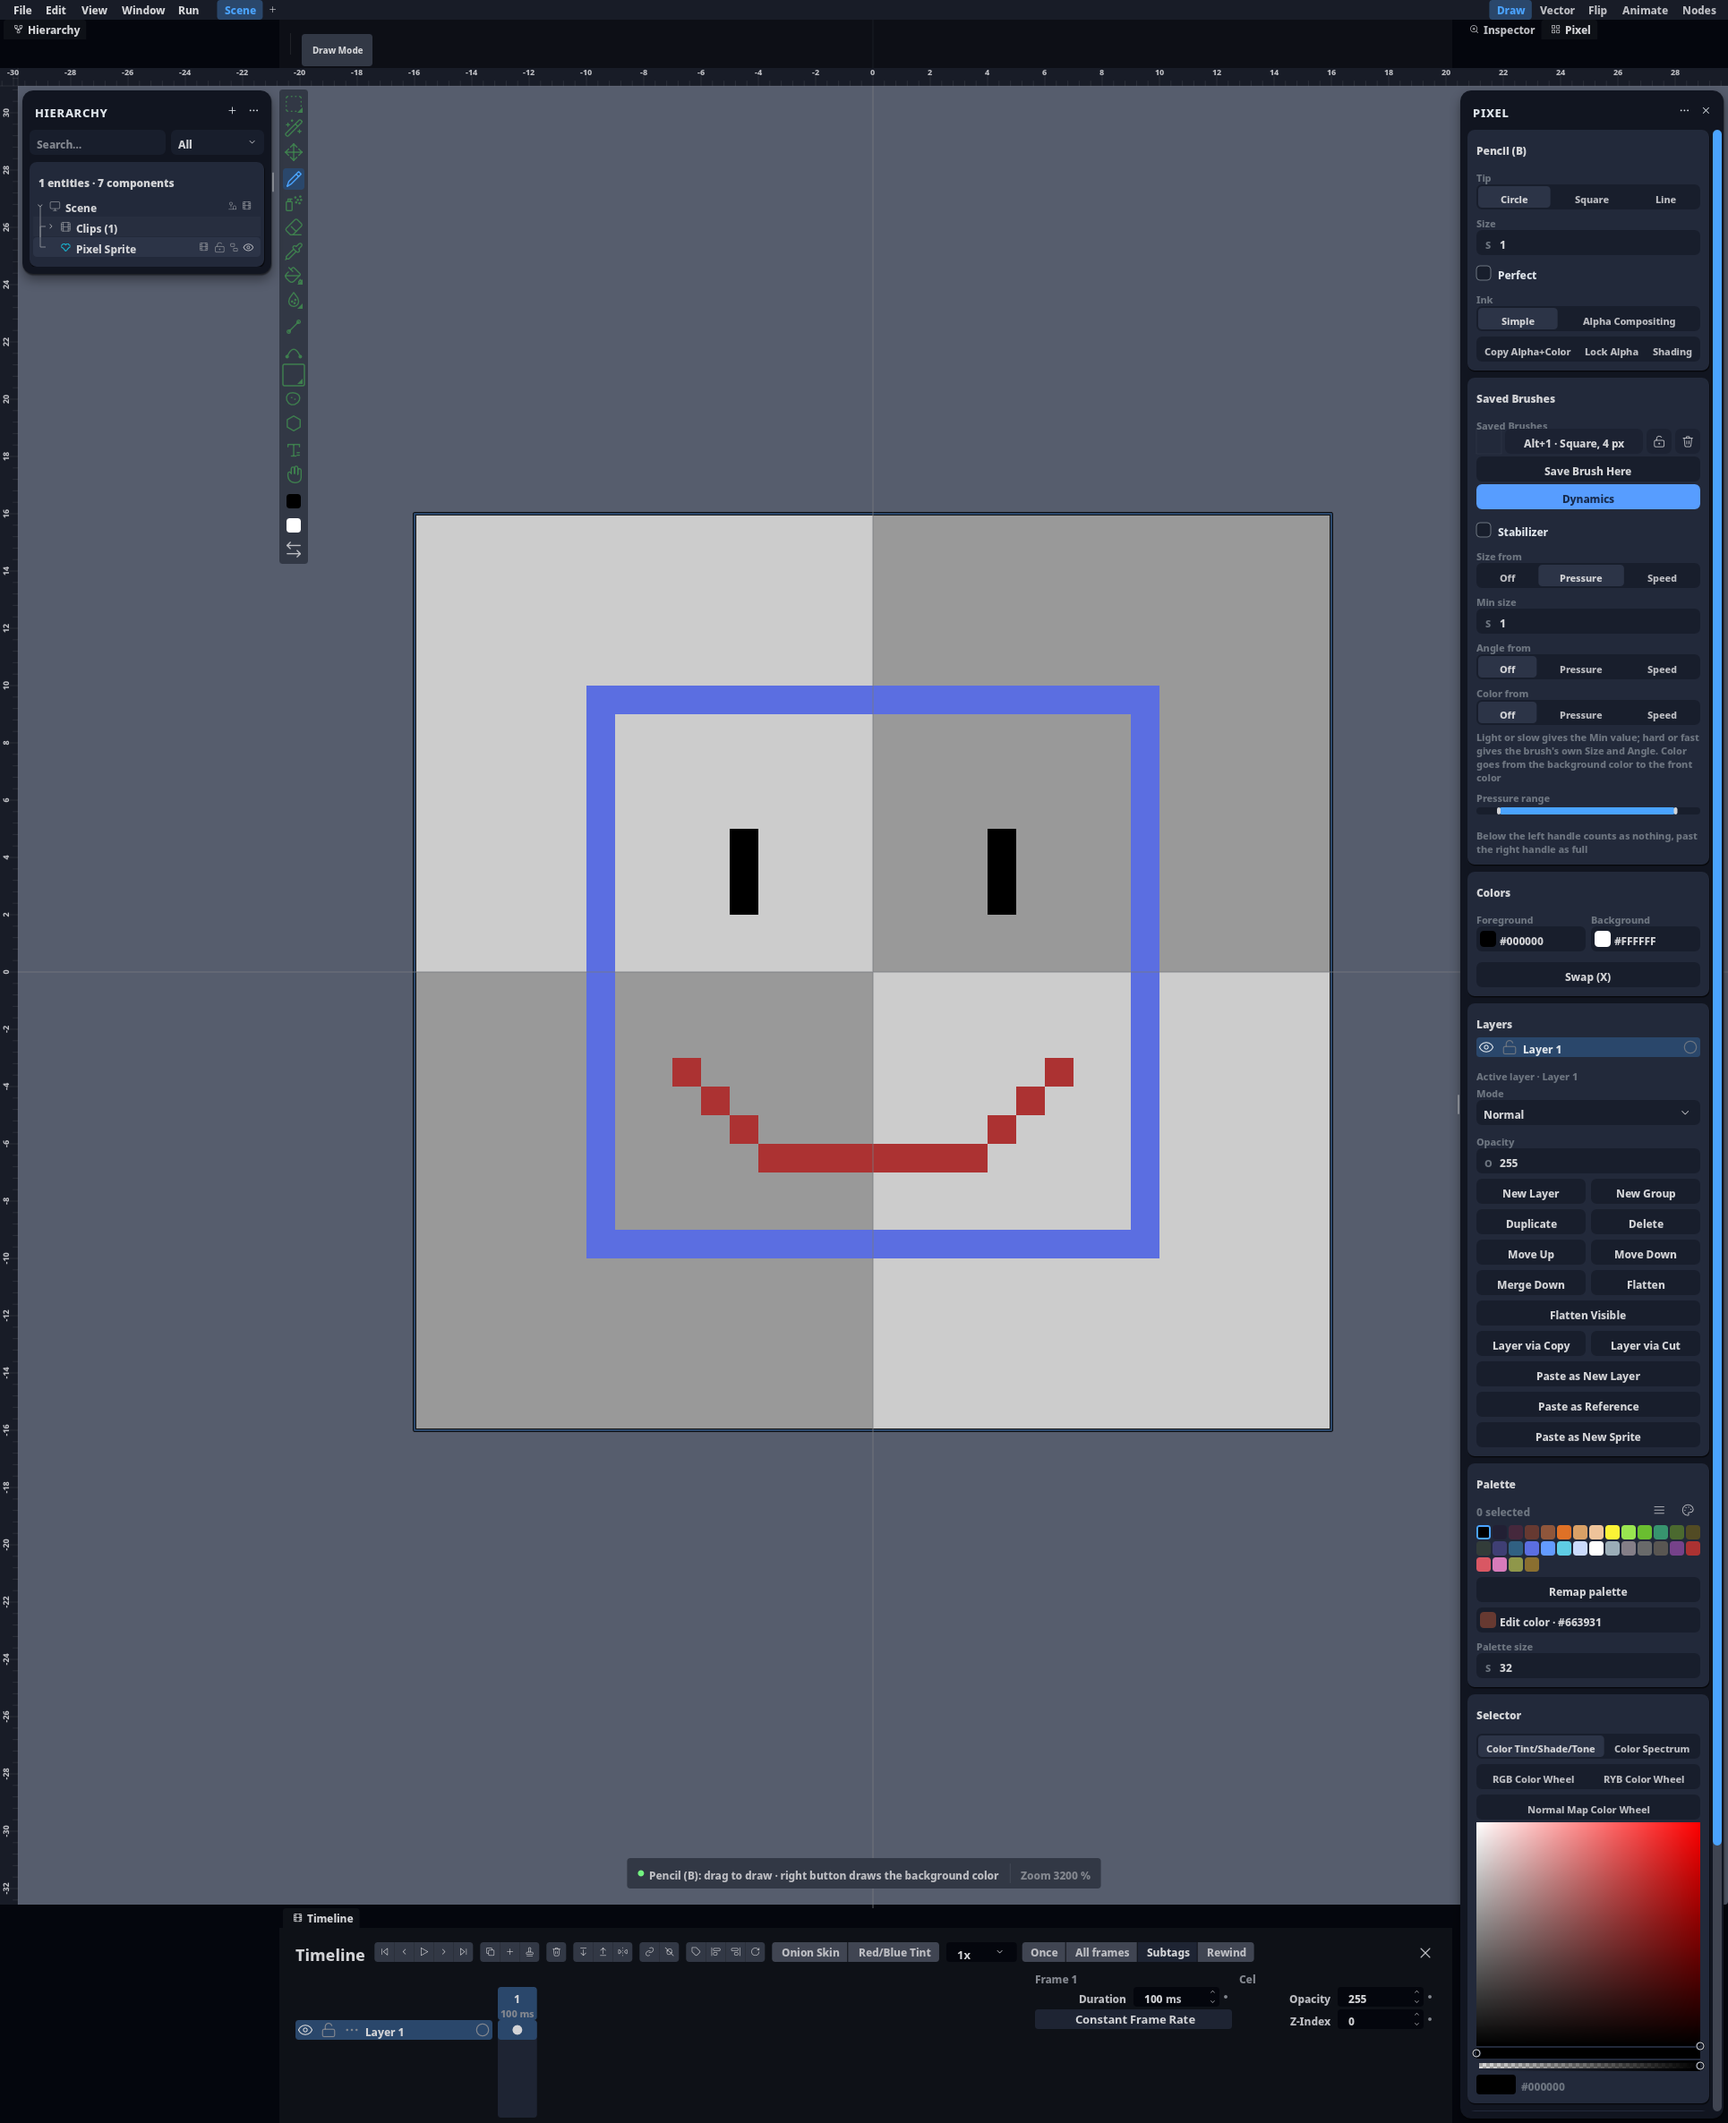
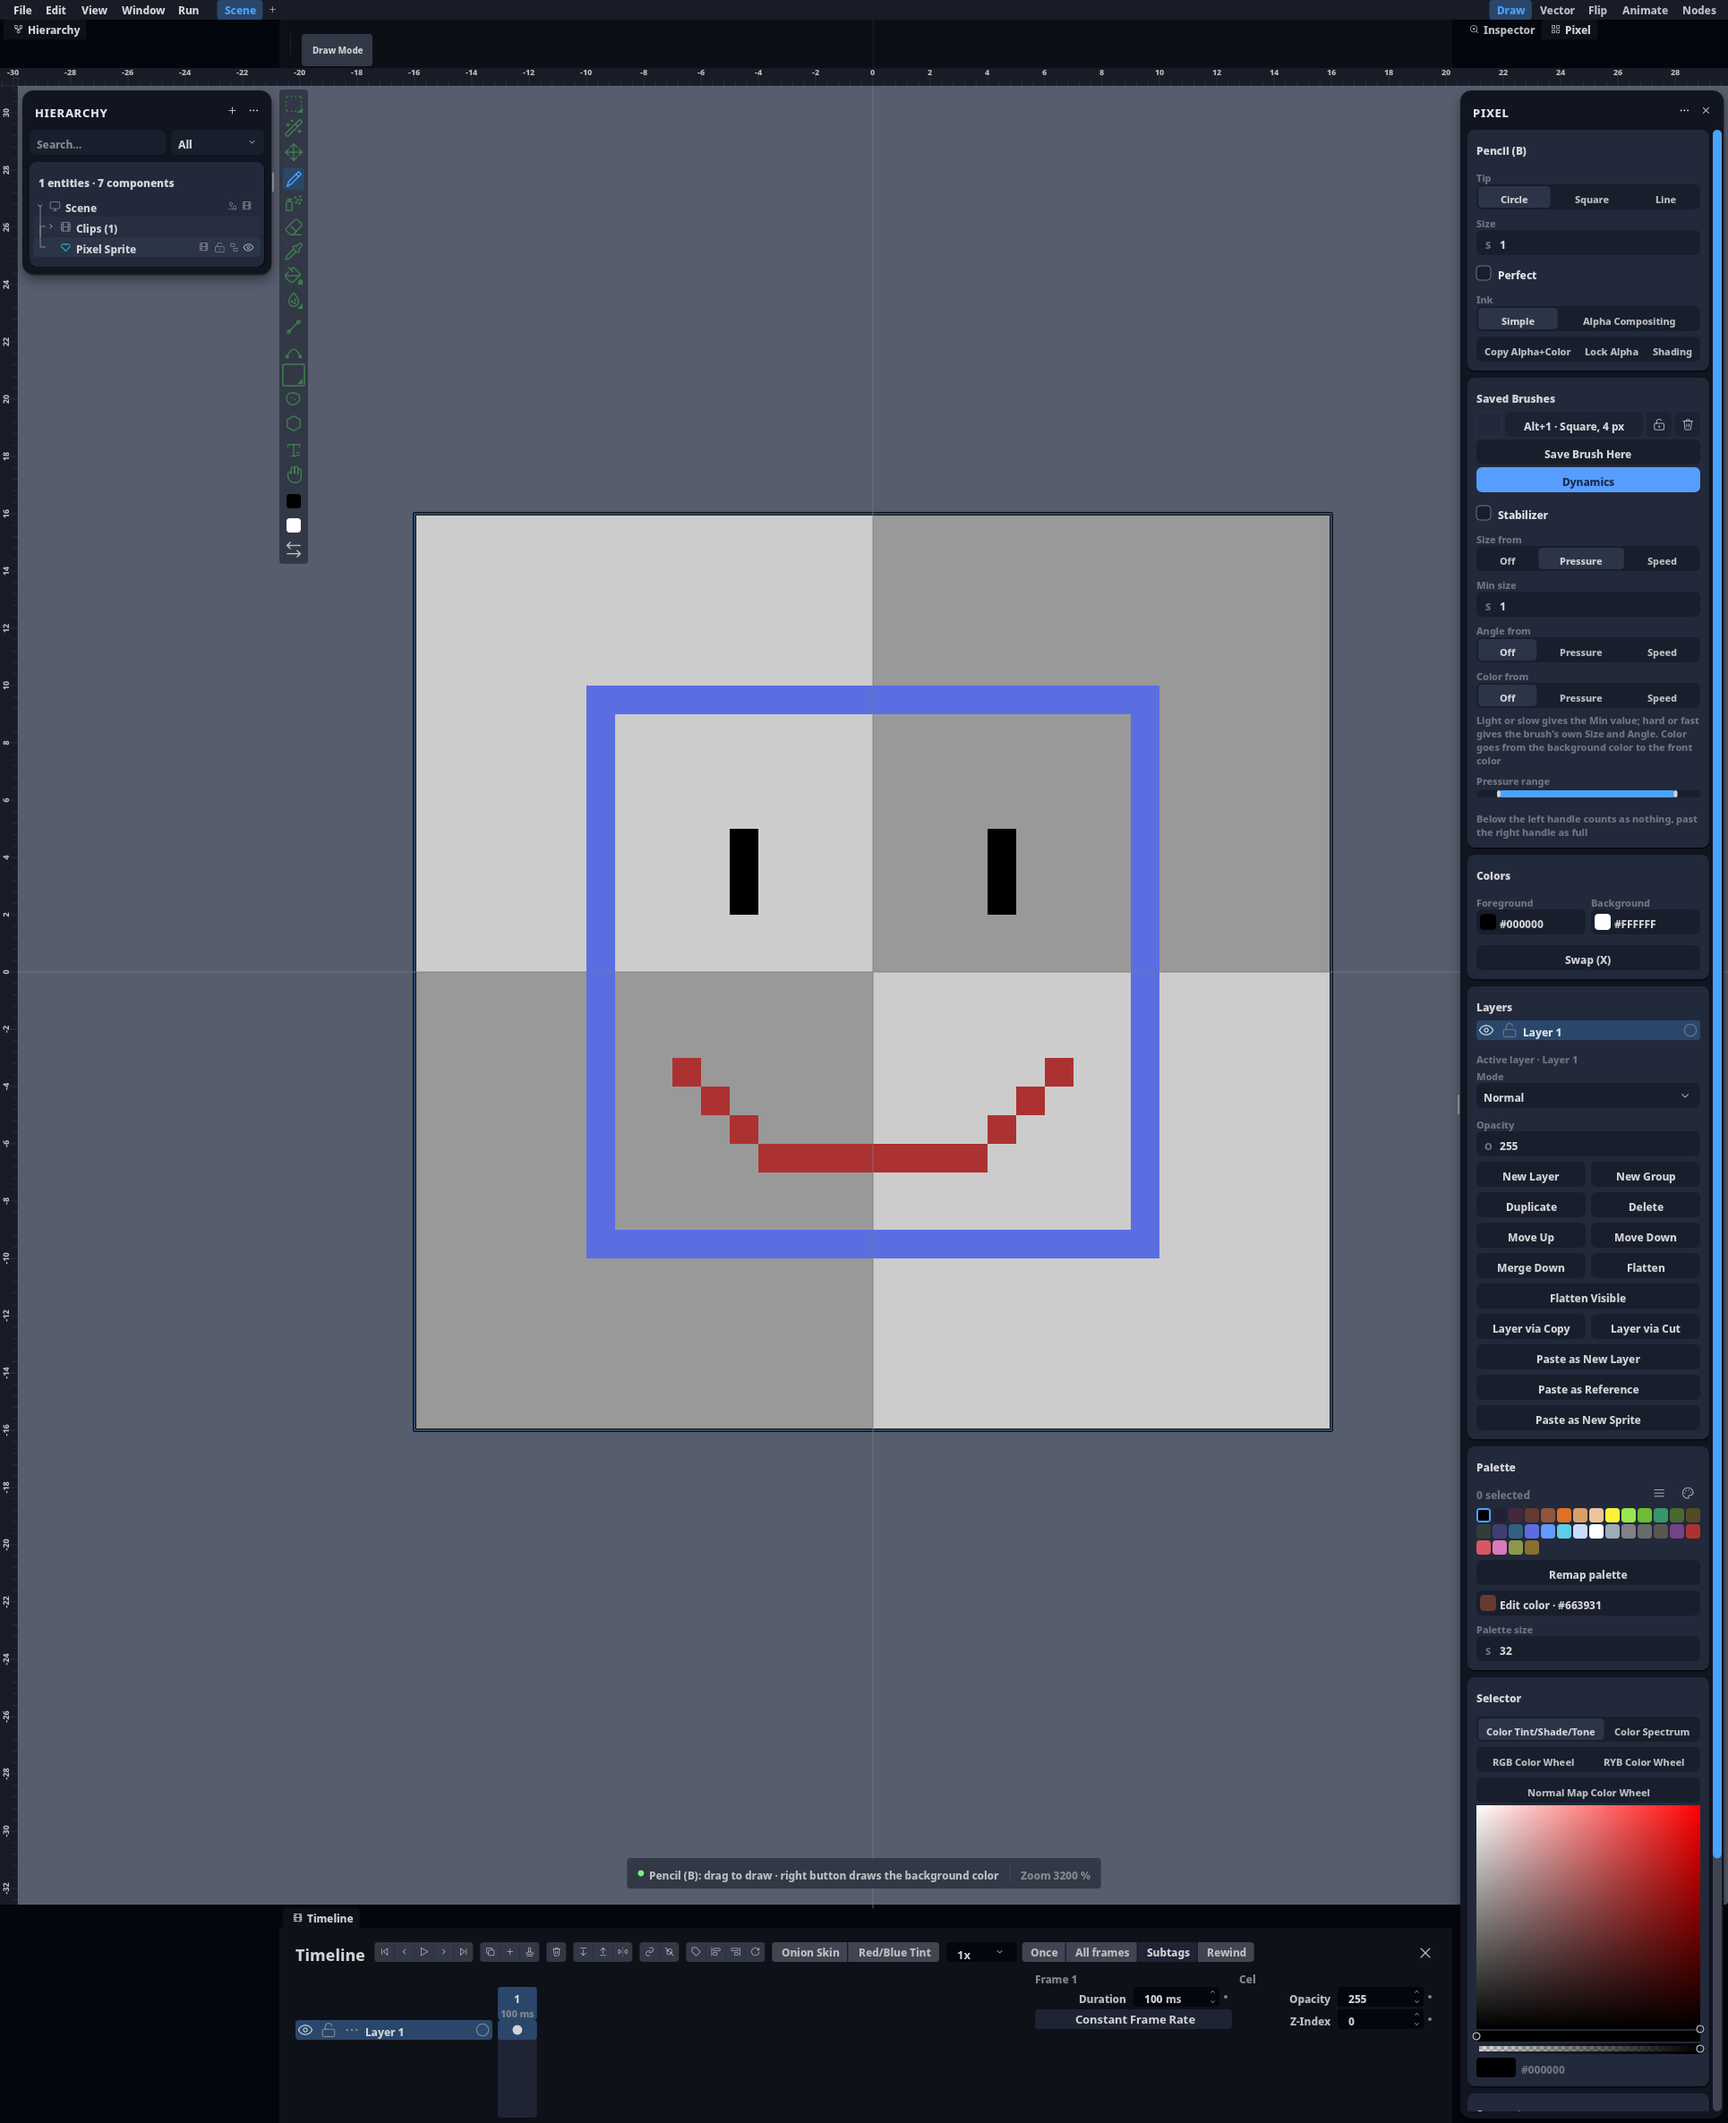
fix(NovaUI E): a caixa da cor sem campo abre o seletor inteira; o censo das marcas mede a lista assente
O alvo de 26 px dentro de uma caixa da fileira fazia um_seletor_de_cor_sozinho reprovar no Flip. O 1.º quadro
da lista corta o corpo na mola, e uma marca do Pixel apanhada no corte media 24,5 px. Tracker: bloco E.

Changed region(s): [[0.8394, 0.1872, 0.9948, 0.8735], [0.8394, 0.9359, 0.9948, 0.9983]]

diff --git a/crates/ph2d-panel-registry-init/tests/it/a_marca_tem_a_altura_da_linha.rs b/crates/ph2d-panel-registry-init/tests/it/a_marca_tem_a_altura_da_linha.rs
@@ -175,10 +175,21 @@ fn colhe(
     saida: &mut Vec<Marca>,
 ) {
     let _ = host.medindo_a_pintura_do_registo(painel, viewport());
-    let registos = host.registos_da_ultima_pintura();
+    let mut registos = host.registos_da_ultima_pintura();
     let cartao = registos
         .iter()
         .any(|(nid, _)| host.store().is_card_section(*nid));
+    // Numa lista de cartões o 1.º quadro corta o corpo na mola das alturas: uma marca apanhada no
+    // corte mediu 24,5 px (Pixel). A régua é a altura da marca, por isso mede a lista assente.
+    if cartao {
+        for _ in 0..60 {
+            let _ = ph2d_editor_core::aquecimento::com_passo_fixo(
+                ph2d_editor_core::aquecimento::PASSO_DE_QUADRO_S,
+                || host.medindo_a_pintura_do_registo(painel, viewport()),
+            );
+        }
+        registos = host.registos_da_ultima_pintura();
+    }
     for (nid, rect) in registos {
         // ⚠ **As DUAS espécies de marca booleana**: o mesmo pintor serve `Checkbox` e `Toggle`
         //    ([`paint_boolean_mark`]), e medir só uma deixaria metade da população de fora.

diff --git a/crates/ph2d-editor-core/src/panel/cards_linhas.rs b/crates/ph2d-editor-core/src/panel/cards_linhas.rs
@@ -429,8 +429,13 @@ impl<'s> CardCtx<'s> {
         });
         let g = m::ICON_GLYPH;
         let amostra = Rect::new(r.x + (m::ICON_CELL - g) * 0.5, r.y + (r.h - g) * 0.5, g, g);
-        self.hit_index
-            .register(id, Rect::new(r.x, r.y, m::ICON_CELL, r.h));
+        // Sem caixa de texto, o código não faz nada: a caixa inteira abre o seletor.
+        let alvo = if edit.is_some() {
+            Rect::new(r.x, r.y, m::ICON_CELL, r.h)
+        } else {
+            r
+        };
+        self.hit_index.register(id, alvo);
         if let Some(c) = rgba {
             fill_rounded_rect(
                 self.scene,

diff --git a/docs/CartoesUI/10_TODO_O_APP_TRACKER.md b/docs/CartoesUI/10_TODO_O_APP_TRACKER.md
@@ -84,7 +84,7 @@ Estado: ⬜ por fazer · 🟨 em curso · ✅ feito (foto vista, testes por nome
 
 (cada bloco fechado acrescenta aqui: commits, fotos, testes, o que ficou aberto)
 
-BLOCO_E_AQUI
+**Bloco E (04/11).** Flip, Pixel e Frames em cartões, commits `21772a0937`, `f28bef813e`, `9994d86ed2`, `43449f82fa` e o de Frames. Testes por gesto: `ph2d-panel-flip` 52, `ph2d-panel-pixel-tools` 74, `ph2d-panel-flip-frames` 21, verdes; os gates antigos correm no corpo de `PH2D_CARDS=0` (`host_de_antes`). API nova: `CardCtx::bare` público, `Rotulo::vista_de`, `corpo::choices` sem ids e sem nome; `pixel_layer_row` pinta com `card_ink::tinta`, igual fora de um cartão. Fotos: `maquete/e_flip.png`, `e_frames.png`, `e_pixel.png`, `e_pixel_menus.png`. Nenhuma catraca mexida: Flip, Frames e Pixel não têm linha nas tabelas de `quantas_entradas_tem_cada_painel`. A caixa da cor sem campo de texto passa a abrir o seletor inteira (`Widget::Swatch`): era um alvo de 26 px numa caixa da largura da fileira, e `um_seletor_de_cor_sozinho…` acusou-a no Flip. `a_marca_tem_a_altura_da_linha` mede a lista assente: o 1.º quadro cortava uma marca do Pixel a 24,5 px. Fotos dos estados: `e_flip_fill.png`, `e_flip_colorize_edit_sculpt.png`. Aberto: a mão ainda não arrastou uma camada do Flip (só setas, como antes); o estado do seletor em Normal Map e o texto do Pixel só têm teste, sem foto.
 
 **Bloco A (04/11).** Mecanismo do Camera (a hipótese de 05 §8 estava errada): `close_section` dentro do corpo fechava uma chapa
 `Bg1` do topo do cabeçalho até à fronteira do Cull Mask, pintada DEPOIS do título, que cobria título e caixas (o mesmo em
